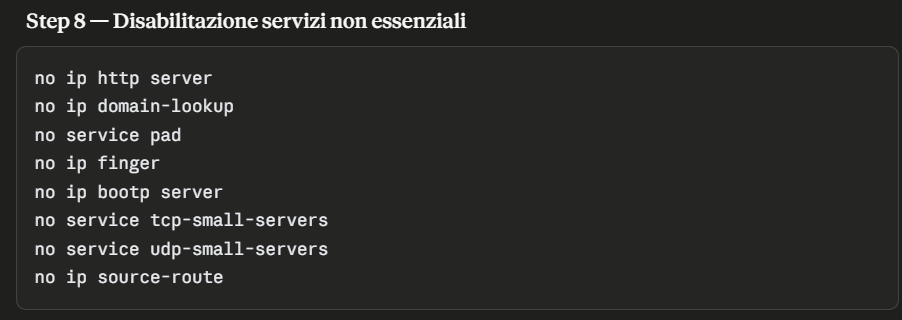
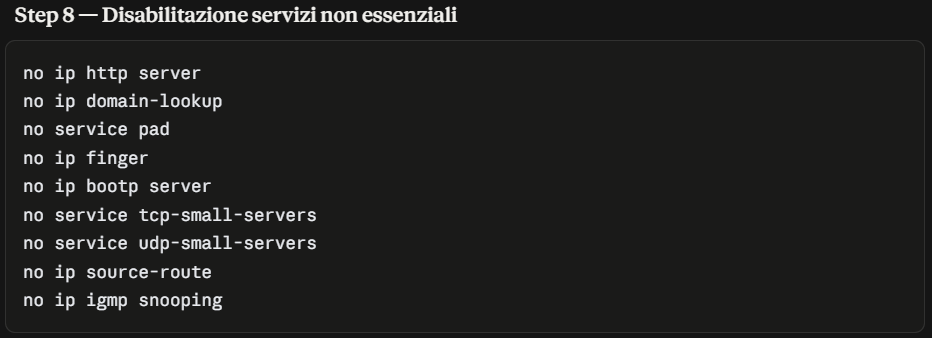
[UPD] step 2.5.1 - 2.5.2 Configurazione HSRP

diff --git a/index.html b/index.html
@@ -709,6 +709,7 @@
                     di pacchetti con percorso di rete specificato dal mittente,
                     tecnica usata per aggirare la sicurezza.
                   </li>
+                  <li><code>no ip igmp snooping</code> — disattiva l'ottimizzazione multicast dello switch, necessaria perché altrimenti blocca la corretta propagazione degli hello HSRP</li>
                 </ul>
                 <br />
                 <h4>Comandi di diagnostica</h4>
@@ -2943,12 +2944,148 @@
               </div>
             </div>
           </details>
-          <details class="obj-item status-todo">
+          <details class="obj-item status-inprogress">
             <summary>
               <span class="obj-text">2.5 — Configurazione HSRP</span>
             </summary>
             <div class="obj-content">
-              <p class="obj-caption">Da completare.</p>
+              <div class="obj-trace">
+                <h4>Traccia / Note</h4>
+                <p>
+                  In questo step andremo a creare gli indirizzi IP virtuali (192.168.0.1 / .65 / .97 / .113), che diventeranno i veri gateway per i client,
+                  seguendo nel dettaglio il piano di indirizzamento. <br>
+                  Con HSRP (Hot Standby Router Protocol), R1 sarà sempre il router attivo su tutte le 4 VLAN, invece R2 sarà sempre di riserva. <br>
+                  Un altro passo fondamentale e collegare il protocollo HSRP allo stesso oggetto di trackinh IP SLA, già costruito al punto precedente, 
+                  in questo caso se R1 dovesse smettere di funzionare o non riesce ad instradare correttamente il traffico la sua priorità HSRP scende, 
+                  cedendo il ruolo di attivo a R2.
+                </p>
+                <br>
+                <ul class="config-explain">
+                  <li>Configurazione HSRP su R1 (Attivo su tutte le VLAN)</li>
+                  <li>Configurazione HSRP su R2 (Standby su tutte le VLAN)</li>
+                </ul>
+              </div>
+              <br>
+              <div class="obj-trace">
+                <h4>2.5.1 - Configurazione HSRP su R1</h4>
+                <p>
+                  Su ciascuna delle 4 sub-interface VLAN di R1, configuriamo HSRP per chreare l'indirizzo IP virtuale,
+                  che diventerà il vero gateway usato dai client e impostiamo i parametri che decidono chi tra R1 e R2 deve 
+                  essere considerato il router attivo in condizioni normali.
+                  <br>
+                  <br>
+                  Fino ad ora, ogni VLAN ha un solo gateway reale per router : R1 e R2 rispondono su indirizzi rali differenti 2 per VLAN, il problema
+                  è che un client può avere configurato un solo indirizzo di gateway. <br>
+                  L'indirizzo IP virtuale risolve questo problema e di fatto un terzo indirizzo che non appartiene fisicamente a nessuno dei 2 router è condiviso 
+                  tra loro, e in un dato momento solo uno dei due router risponde effettivamente a quell' IP virtuale. <br>
+                  Se R1 attivo dovesse spegnersi, R2 eredita automaticamente quell'indirizzo a cui puntano i client.
+                  <br>
+                  <br>
+                  La priority che vedremo nella sequenza di comandi di HSRP decide chi tra i due router diventa attivo, è esattamente 
+                  lo stesso principio della priority vista con STP, ma con una differenza importante, ne caso di HSRP vince il valore più alto,
+                  non quello più basso. <br>
+                  Attualmente i 2 router hanno un valore di default pari a 100, se non lo configuriamo l'elezione del router attivo non avviene in modo
+                  deterministico.
+                </p>
+                <br>
+                <img
+                  src="./img/Configurazione_HSRP_R1.png"
+                  alt="Topologia di rete aggiornata v1.1 - canvas GNS3"
+                  class="obj-image"
+                />
+                <br>
+                <ul class="config-explain">
+                  <li><code>standby 'gruppo' ip 'indirizzo' :</code>Crea l'indirizzo IP virtuale condiviso per una specifica VLAN</li>
+                  <li><code>standby 'gruppo' priority 110 :</code>Imposta la priorità</li>
+                  <li><code>standby 'gruppo' preempt :</code>Permette a R1 di ripendere il ruolo attivo non appena torna disponibile</li>
+                  <li><code>standby 'gruppo' track 1 decrement 20 :</code>Collega il gruppo HSRP all'oggetto di tracking 1, se il tracking rileva 'Down', la priorità di R1 scende di 20
+                  qundi da 110 a 90, essendo inferiore a 100 di R2, permette a R2 di prendere il ruolo di attivo.</li>
+                </ul>
+                <br>
+                <h4>Comandi di diagnostica</h4>
+                <ul class="config-explain">
+                  <li><code>show standby brief :</code>mostra un riepilogo compatto di tutti i gruppi HSRP configurati su questo router, con stato ("Active"/"Standby"), 
+                    priorità e IP virtuale</li>
+                </ul>
+              </div>
+              <br>
+              <div class="obj-trace">
+                <h4>2.5.2 - Configurazione HSRP su R2</h4>
+                <p>
+                  Ripetiamo lo stesso schema già visto su R1, IP virtuale identico, nessuna priority esplicita resta quella di default con valore 100, per il resto la configurazione
+                  resta invariata.
+                </p>
+                <br>
+                <img
+                  src="./img/Configurazione_HSRP_R2.png"
+                  alt="Topologia di rete aggiornata v1.1 - canvas GNS3"
+                  class="obj-image"
+                />
+                <br>
+                <ul class="config-explain">
+                  <li><code>standby 'gruppo' ip 'indirizzo' :</code>Crea l'indirizzo IP virtuale condiviso per una specifica VLAN</li>
+                  <li><code>standby 'gruppo' preempt :</code>Permette a R1 di ripendere il ruolo attivo non appena torna disponibile</li>
+                  <li><code>standby 'gruppo' track 1 decrement 20 :</code>Collega il gruppo HSRP all'oggetto di tracking 1, se il tracking rileva 'Down', la priorità di R1 scende di 20
+                  qundi da 110 a 90, essendo inferiore a 100 di R2, permette a R2 di prendere il ruolo di attivo.</li>
+                </ul>
+                <br>
+                <h4>Comandi di diagnostica</h4>
+                <ul class="config-explain">
+                  <li><code>show standby brief :</code>mostra un riepilogo compatto di tutti i gruppi HSRP configurati su questo router, con stato ("Active"/"Standby"), 
+                    priorità e IP virtuale</li>
+                </ul>
+              </div>
+              <br>
+              <div class="obj-trace">
+                <h4>Problemi riscontrati - 2.5 Configurazione HSRP </h4>
+                <p>
+                  Durante la configurazione HSRP non si stabiliva correttamente la relazione
+                  Active/Standby tra R1 e R2: entrambi i router si eleggevano "Active",
+                  nonostante la connettività unicast tra i due dispositivi fosse già
+                  verificata e funzionante.
+                </p>
+                <br>
+                <p>
+                  Il problema riguardava gli hello HSRP: si tratta di pacchetti che ciascun
+                  router del gruppo invia periodicamente, di default ogni 3 secondi, a tutti
+                  i partecipanti, in modo da farsi riconoscere e comunicare il proprio stato
+                  attuale. Sono il componente principale del protocollo HSRP: grazie a questo
+                  scambio continuo i dispositivi restano consapevoli del loro reciproco stato
+                  di attività — se gli hello HSRP smettessero di arrivare, il router in
+                  standby arriverebbe alla conclusione che il partner non risponde più, e
+                  inizierebbe la procedura per diventare lui stesso attivo. Nel nostro caso,
+                  questi pacchetti viaggiano come traffico multicast (indirizzo 224.0.0.2,
+                  porta UDP 1985).
+                </p>
+                <br>
+                <p>
+                  IGMP Snooping, attivo di default sugli switch, ottimizza il traffico
+                  multicast inoltrandolo solo verso porte con ricevitori registrati tramite
+                  IGMP, ma HSRP non si registra mai in questo modo, e in assenza di un querier
+                  IGMP nella rete i suoi pacchetti non venivano correttamente inoltrati
+                  attraverso la maglia switch.
+                </p>
+                <br>
+                <p>
+                  La soluzione è stata eseguire, in configurazione globale su tutti e quattro
+                  gli switch, il comando <code>no ip igmp snooping</code>. Questo comando
+                  disattiva interamente la funzionalità di IGMP Snooping sullo switch,
+                  facendolo tornare al comportamento predefinito di uno switch Layer 2
+                  classico: qualsiasi frame multicast ricevuto viene inoltrato su tutte le
+                  porte appartenenti alla stessa VLAN, esattamente come avviene già per il
+                  traffico broadcast, invece di essere filtrato in base a una tabella di
+                  ricevitori registrati. Nel nostro caso questo comportamento "più permissivo"
+                  non comporta alcuno svantaggio reale, dato che non abbiamo altre applicazioni
+                  multicast nella rete oltre agli hello HSRP stessi — disattivare
+                  completamente il filtro, invece di provare a "correggerlo" con un querier
+                  IGMP dedicato, è quindi la soluzione più semplice ed efficace per questo
+                  specifico scenario.
+                </p>
+                <br>
+                <p>
+                  Il comando è stato aggiunto allo step 1.1.8 disabilitazione servizi non essenziali switch.
+                </p>
+              </div>
             </div>
           </details>
           <details class="obj-item status-todo">
